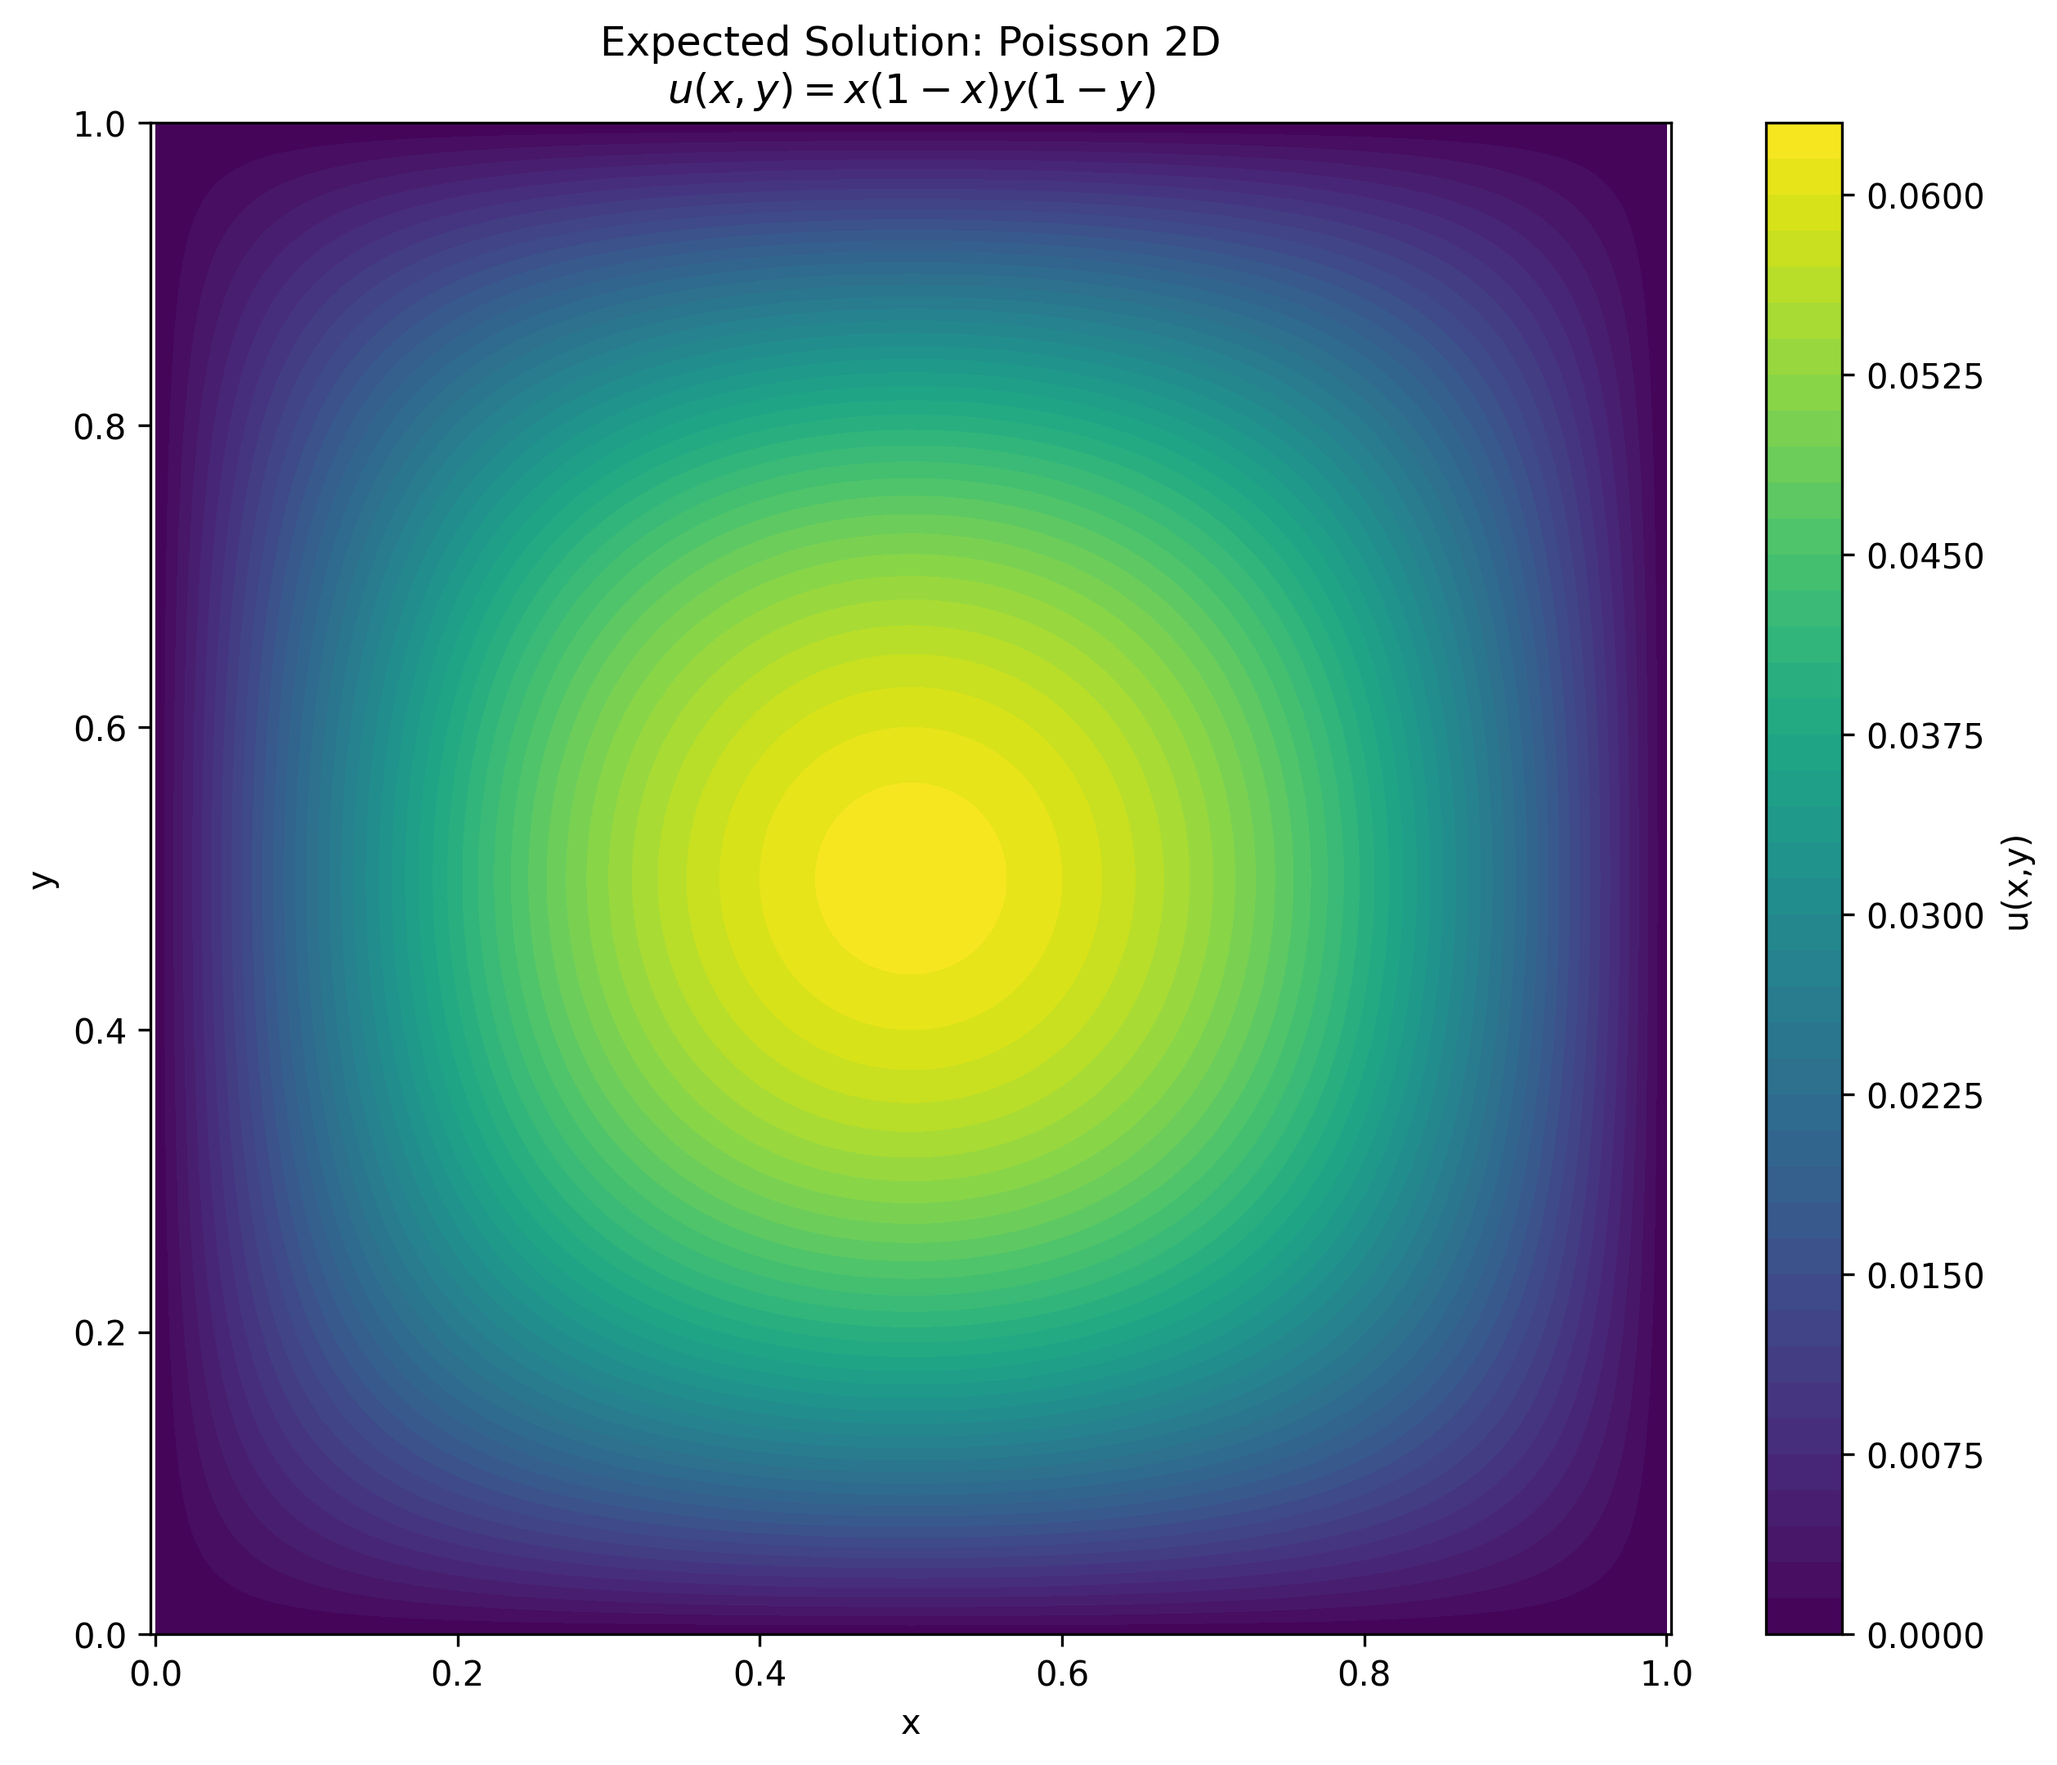
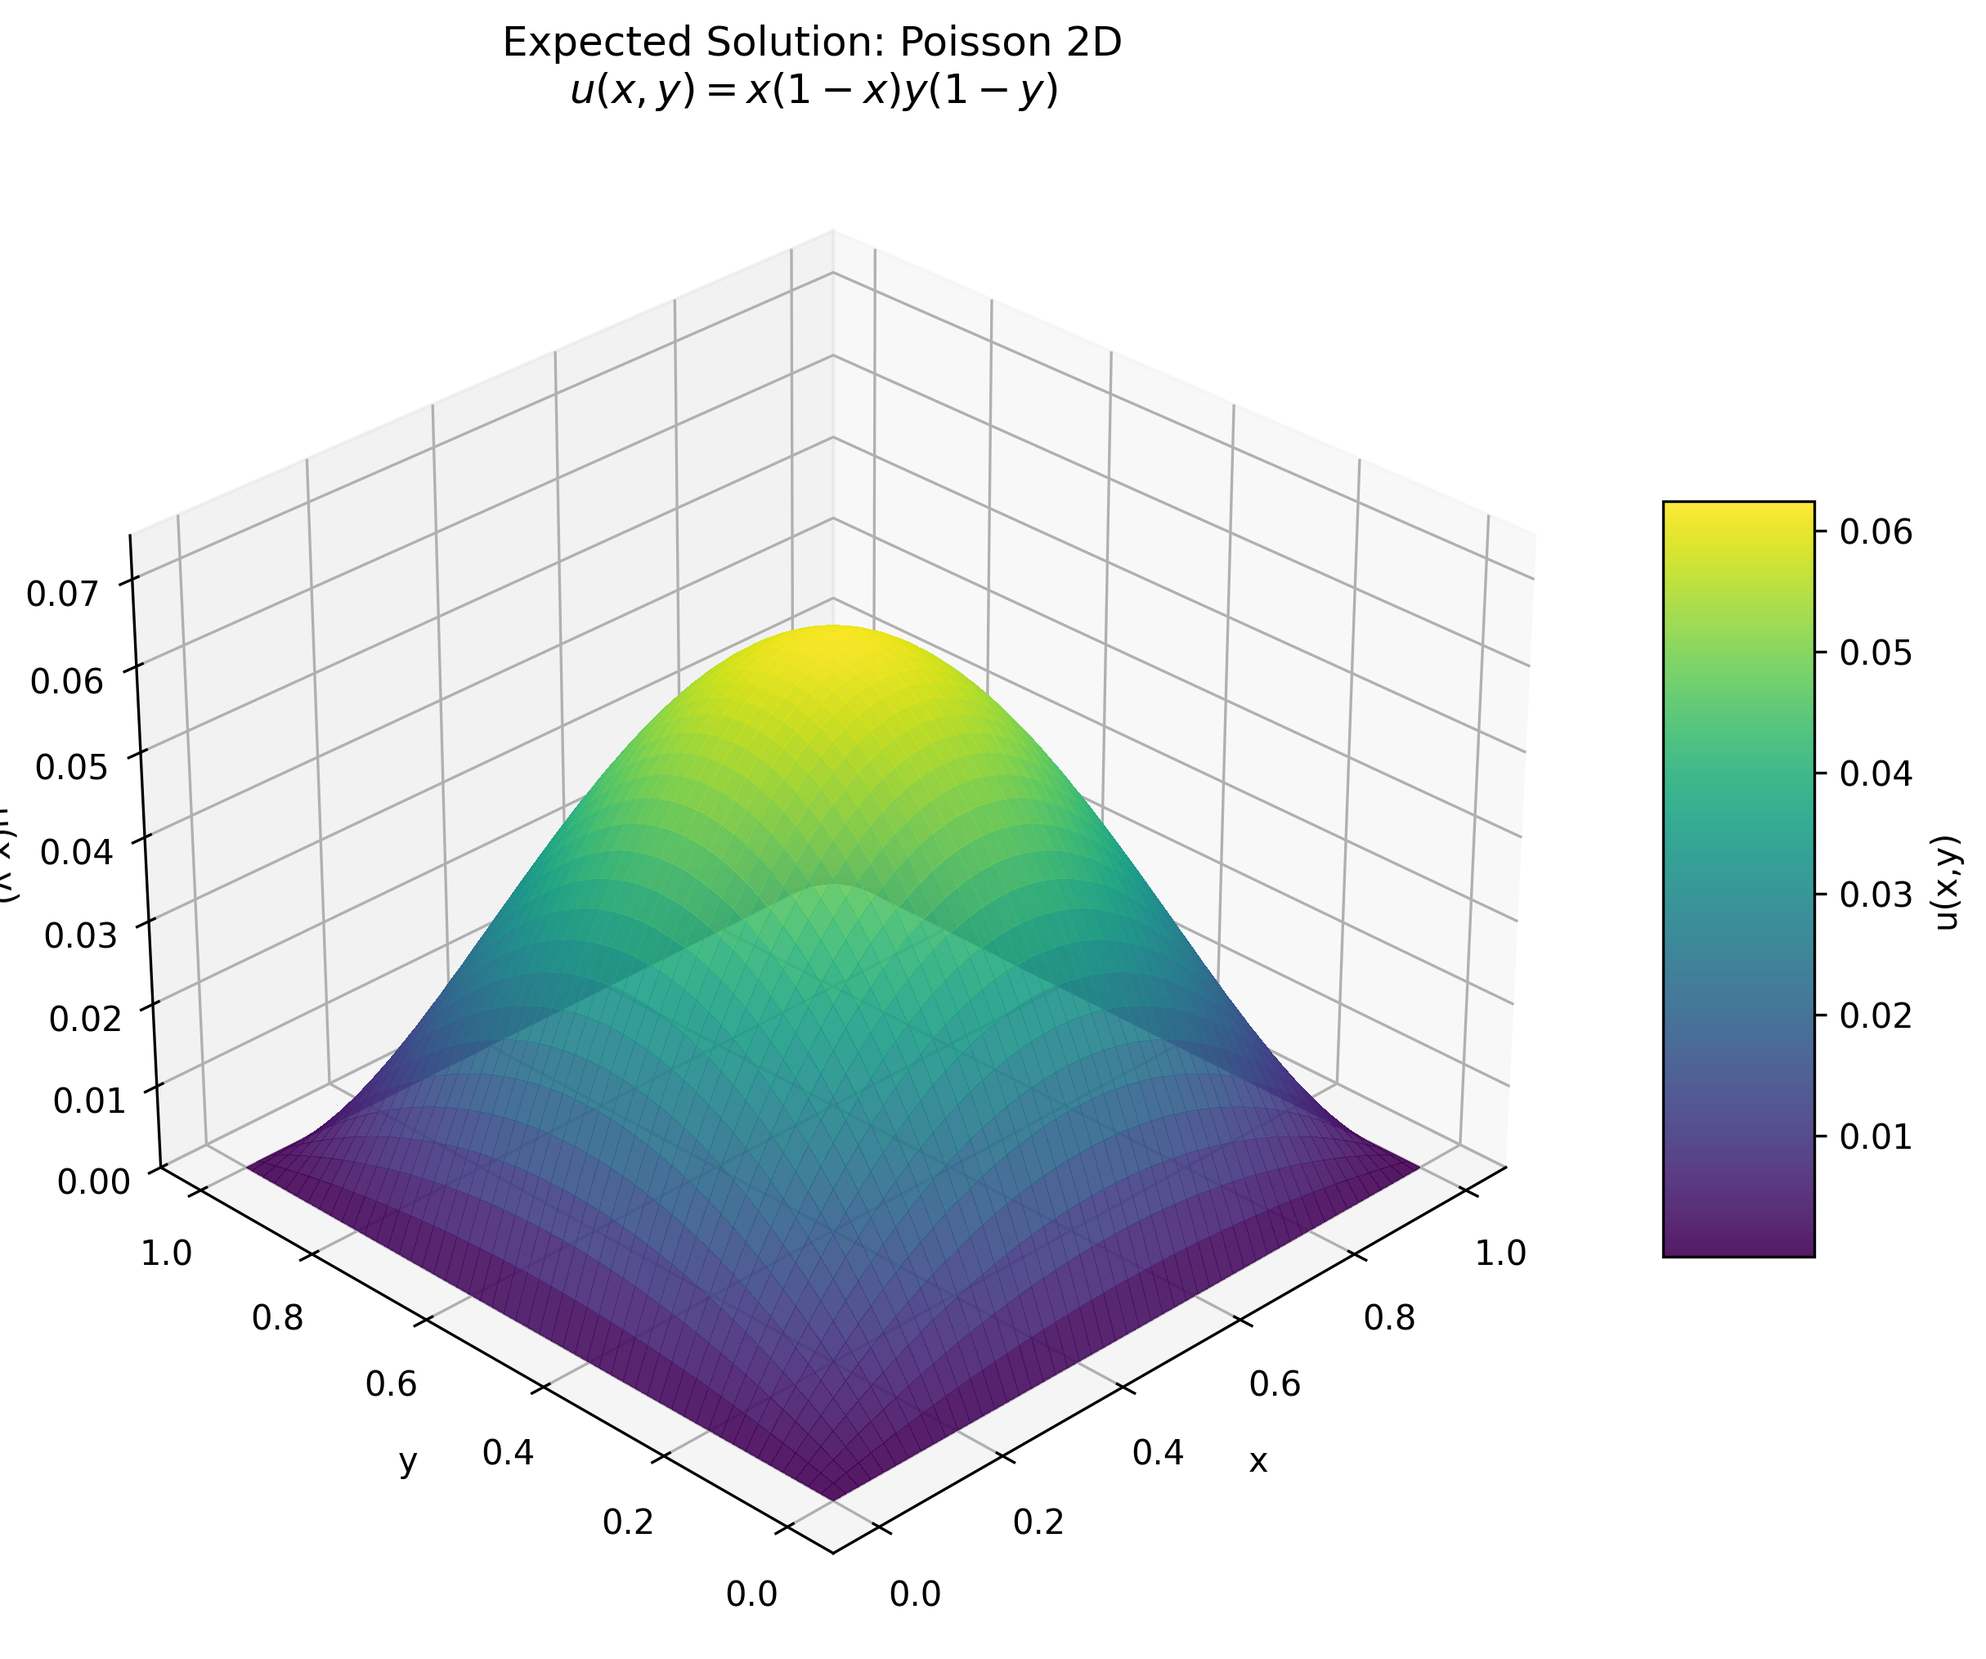
Fix: Change solution visualization to 3D surface plot

diff --git a/scripts/visualize_poisson.py b/scripts/visualize_poisson.py
@@ -17,16 +17,29 @@ def generate_exact_solution(n=100):
     return X, Y, U
 
 def plot_solution():
-    X, Y, U = generate_exact_solution(200)
+    from mpl_toolkits.mplot3d import Axes3D
+    from matplotlib import cm
+
+    X, Y, U = generate_exact_solution(100)
     
-    plt.figure(figsize=(10, 8))
-    # Use a nice colormap (jet or viridis)
-    cp = plt.contourf(X, Y, U, 50, cmap='viridis')
-    plt.colorbar(cp, label='u(x,y)')
-    plt.title('Expected Solution: Poisson 2D\n$u(x,y) = x(1-x)y(1-y)$')
-    plt.xlabel('x')
-    plt.ylabel('y')
-    plt.axis('equal')
+    fig = plt.figure(figsize=(10, 8))
+    ax = fig.add_subplot(111, projection='3d')
+    
+    # Plot the surface
+    surf = ax.plot_surface(X, Y, U, cmap='viridis',
+                          linewidth=0, antialiased=False, alpha=0.9)
+    
+    # Customize axis
+    ax.set_zlim(0, np.max(U)*1.2)
+    ax.set_xlabel('x')
+    ax.set_ylabel('y')
+    ax.set_zlabel('u(x,y)')
+    ax.view_init(elev=30, azim=225)  # Preferred angle
+    
+    # Add a color bar which maps values to colors.
+    fig.colorbar(surf, shrink=0.5, aspect=5, label='u(x,y)')
+    
+    plt.title('Expected Solution: Poisson 2D\n$u(x,y) = x(1-x)y(1-y)$', fontsize=12)
     
     # Save
     plt.savefig('docs/solution_viz.png', dpi=300, bbox_inches='tight')
